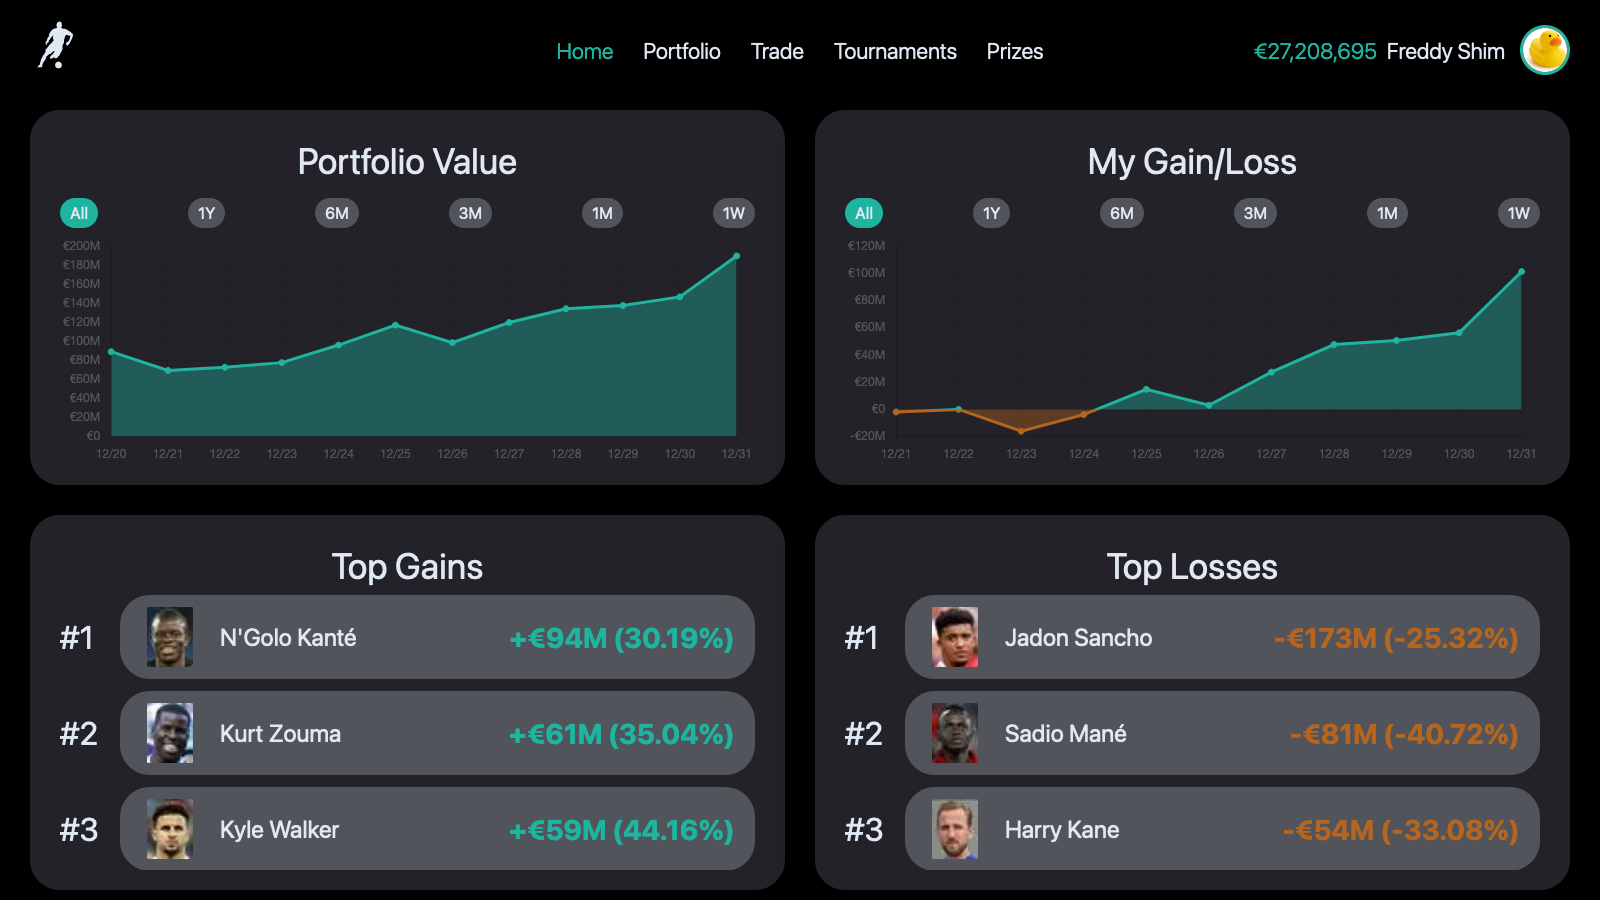
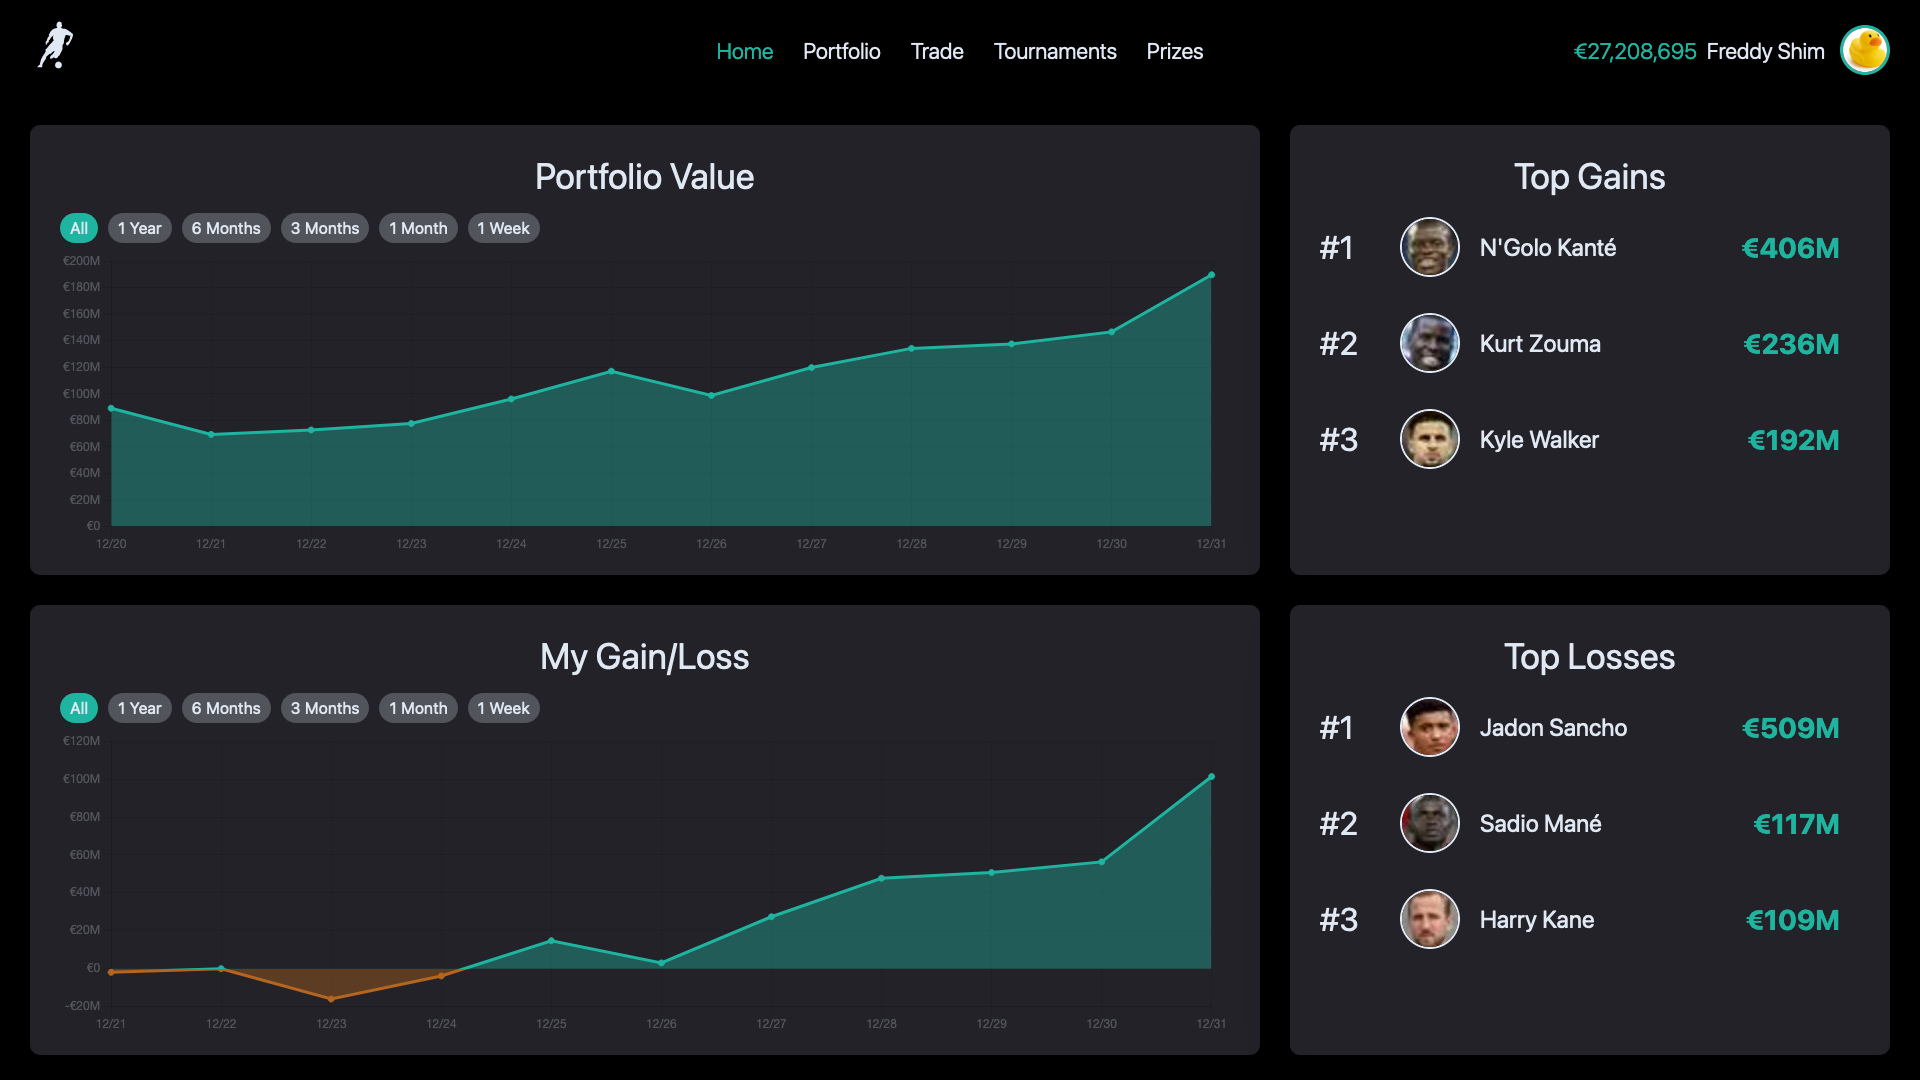
improved UI for Home page; updated demo images on landing page

diff --git a/client/pages/index.tsx b/client/pages/index.tsx
@@ -60,21 +60,21 @@ const Home = (props: GlobalProps) => {
   return (
     <Layout>
       <GridContainer className={styles.grid}>
-        <div className={styles.widget}>
+        <div className={`${styles.widget} ${styles.grid__value}`}>
           <div className={styles.widget__header}>Portfolio Value</div>
           <div className={styles.widget__chart}>
             <LineChart data={portfolioValue} />
           </div>
         </div>
         <div className={styles.widget}>
+          <div className={styles.widget__header}>Top Gains</div>
+          <div className={styles.widget__list}>{renderPlayers(topMargins)}</div>
+        </div>
+        <div className={`${styles.widget} ${styles.grid__gain}`}>
           <div className={styles.widget__header}>My Gain/Loss</div>
           <div className={styles.widget__chart}>
             <LineChart data={gainLossValue} type="pos-neg" />
           </div>
-        </div>
-        <div className={styles.widget}>
-          <div className={styles.widget__header}>Top Gains</div>
-          <div className={styles.widget__list}>{renderPlayers(topMargins)}</div>
         </div>
         <div className={styles.widget}>
           <div className={styles.widget__header}>Top Losses</div>

diff --git a/client/components/Landing.tsx b/client/components/Landing.tsx
@@ -4,7 +4,6 @@ import Button from '@components/Button'
 import Dashboard from '@public/demo-1.png'
 import Portfolio from '@public/demo-2.png'
 import Trade from '@public/demo-3.png'
-import Transaction from '@public/demo-4.png'
 import Medals from '@public/medals.png'
 import styles from '@styles/components/Landing.module.scss'
 
@@ -81,7 +80,7 @@ const Landing = () => {
           </div>
           <div className={styles.trade__image__transaction}>
             <Image
-              src={Transaction.src}
+              src={Dashboard.src}
               alt="Photo of player transaction in app"
               className={styles.image__img}
               layout="responsive"

diff --git a/client/styles/components/GridContainer.module.scss b/client/styles/components/GridContainer.module.scss
@@ -1,11 +1,21 @@
 .container {
   @include container;
   display: grid;
+
   grid: {
     template: {
-      columns: repeat(auto-fit, minmax(37.5em, 1fr));
+      columns: repeat(3, 1fr);
+      rows: repeat(2, 1fr);
     }
-    auto-rows: 100%;
     gap: 3rem;
+  }
+
+  @include respond(tab-port) {
+    grid: {
+      template: {
+        columns: repeat(auto-fit, minmax(37.5em, 1fr));
+      }
+      auto-rows: 100%;
+    }
   }
 }

diff --git a/client/styles/components/Landing.module.scss b/client/styles/components/Landing.module.scss
@@ -92,7 +92,6 @@ $three-fourth: 56.25em;
 }
 
 .main {
-  background-color: $color-primary;
   flex-direction: column;
 
   &__content {
@@ -166,7 +165,7 @@ $three-fourth: 56.25em;
 }
 
 .trade {
-  background-color: $color-primary-light;
+  background-color: $color-primary;
   margin: 0 auto;
 
   @include respond(tab-port) {

diff --git a/client/styles/pages/Home.module.scss b/client/styles/pages/Home.module.scss
@@ -3,8 +3,13 @@
 }
 
 .grid {
-  grid-auto-rows: 50%;
-  margin-bottom: 3rem;
+  &__value {
+    grid-column: span 2;
+  }
+
+  &__gain {
+    grid-column: span 2;
+  }
 }
 
 .numberedItem {

diff --git a/client/styles/pages/Portfolio.module.scss b/client/styles/pages/Portfolio.module.scss
@@ -1,11 +1,4 @@
 .grid {
-  grid: {
-    template: {
-      columns: repeat(3, 1fr);
-      rows: repeat(2, 1fr);
-    }
-  }
-
   &__players {
     grid-row: span 2;
   }

diff --git a/client/styles/pages/Trade.module.scss b/client/styles/pages/Trade.module.scss
@@ -1,11 +1,4 @@
 .grid {
-  grid: {
-    template: {
-      columns: repeat(3, 1fr);
-      rows: repeat(2, 1fr);
-    }
-  }
-
   &__search {
     grid-row: span 2;
   }
